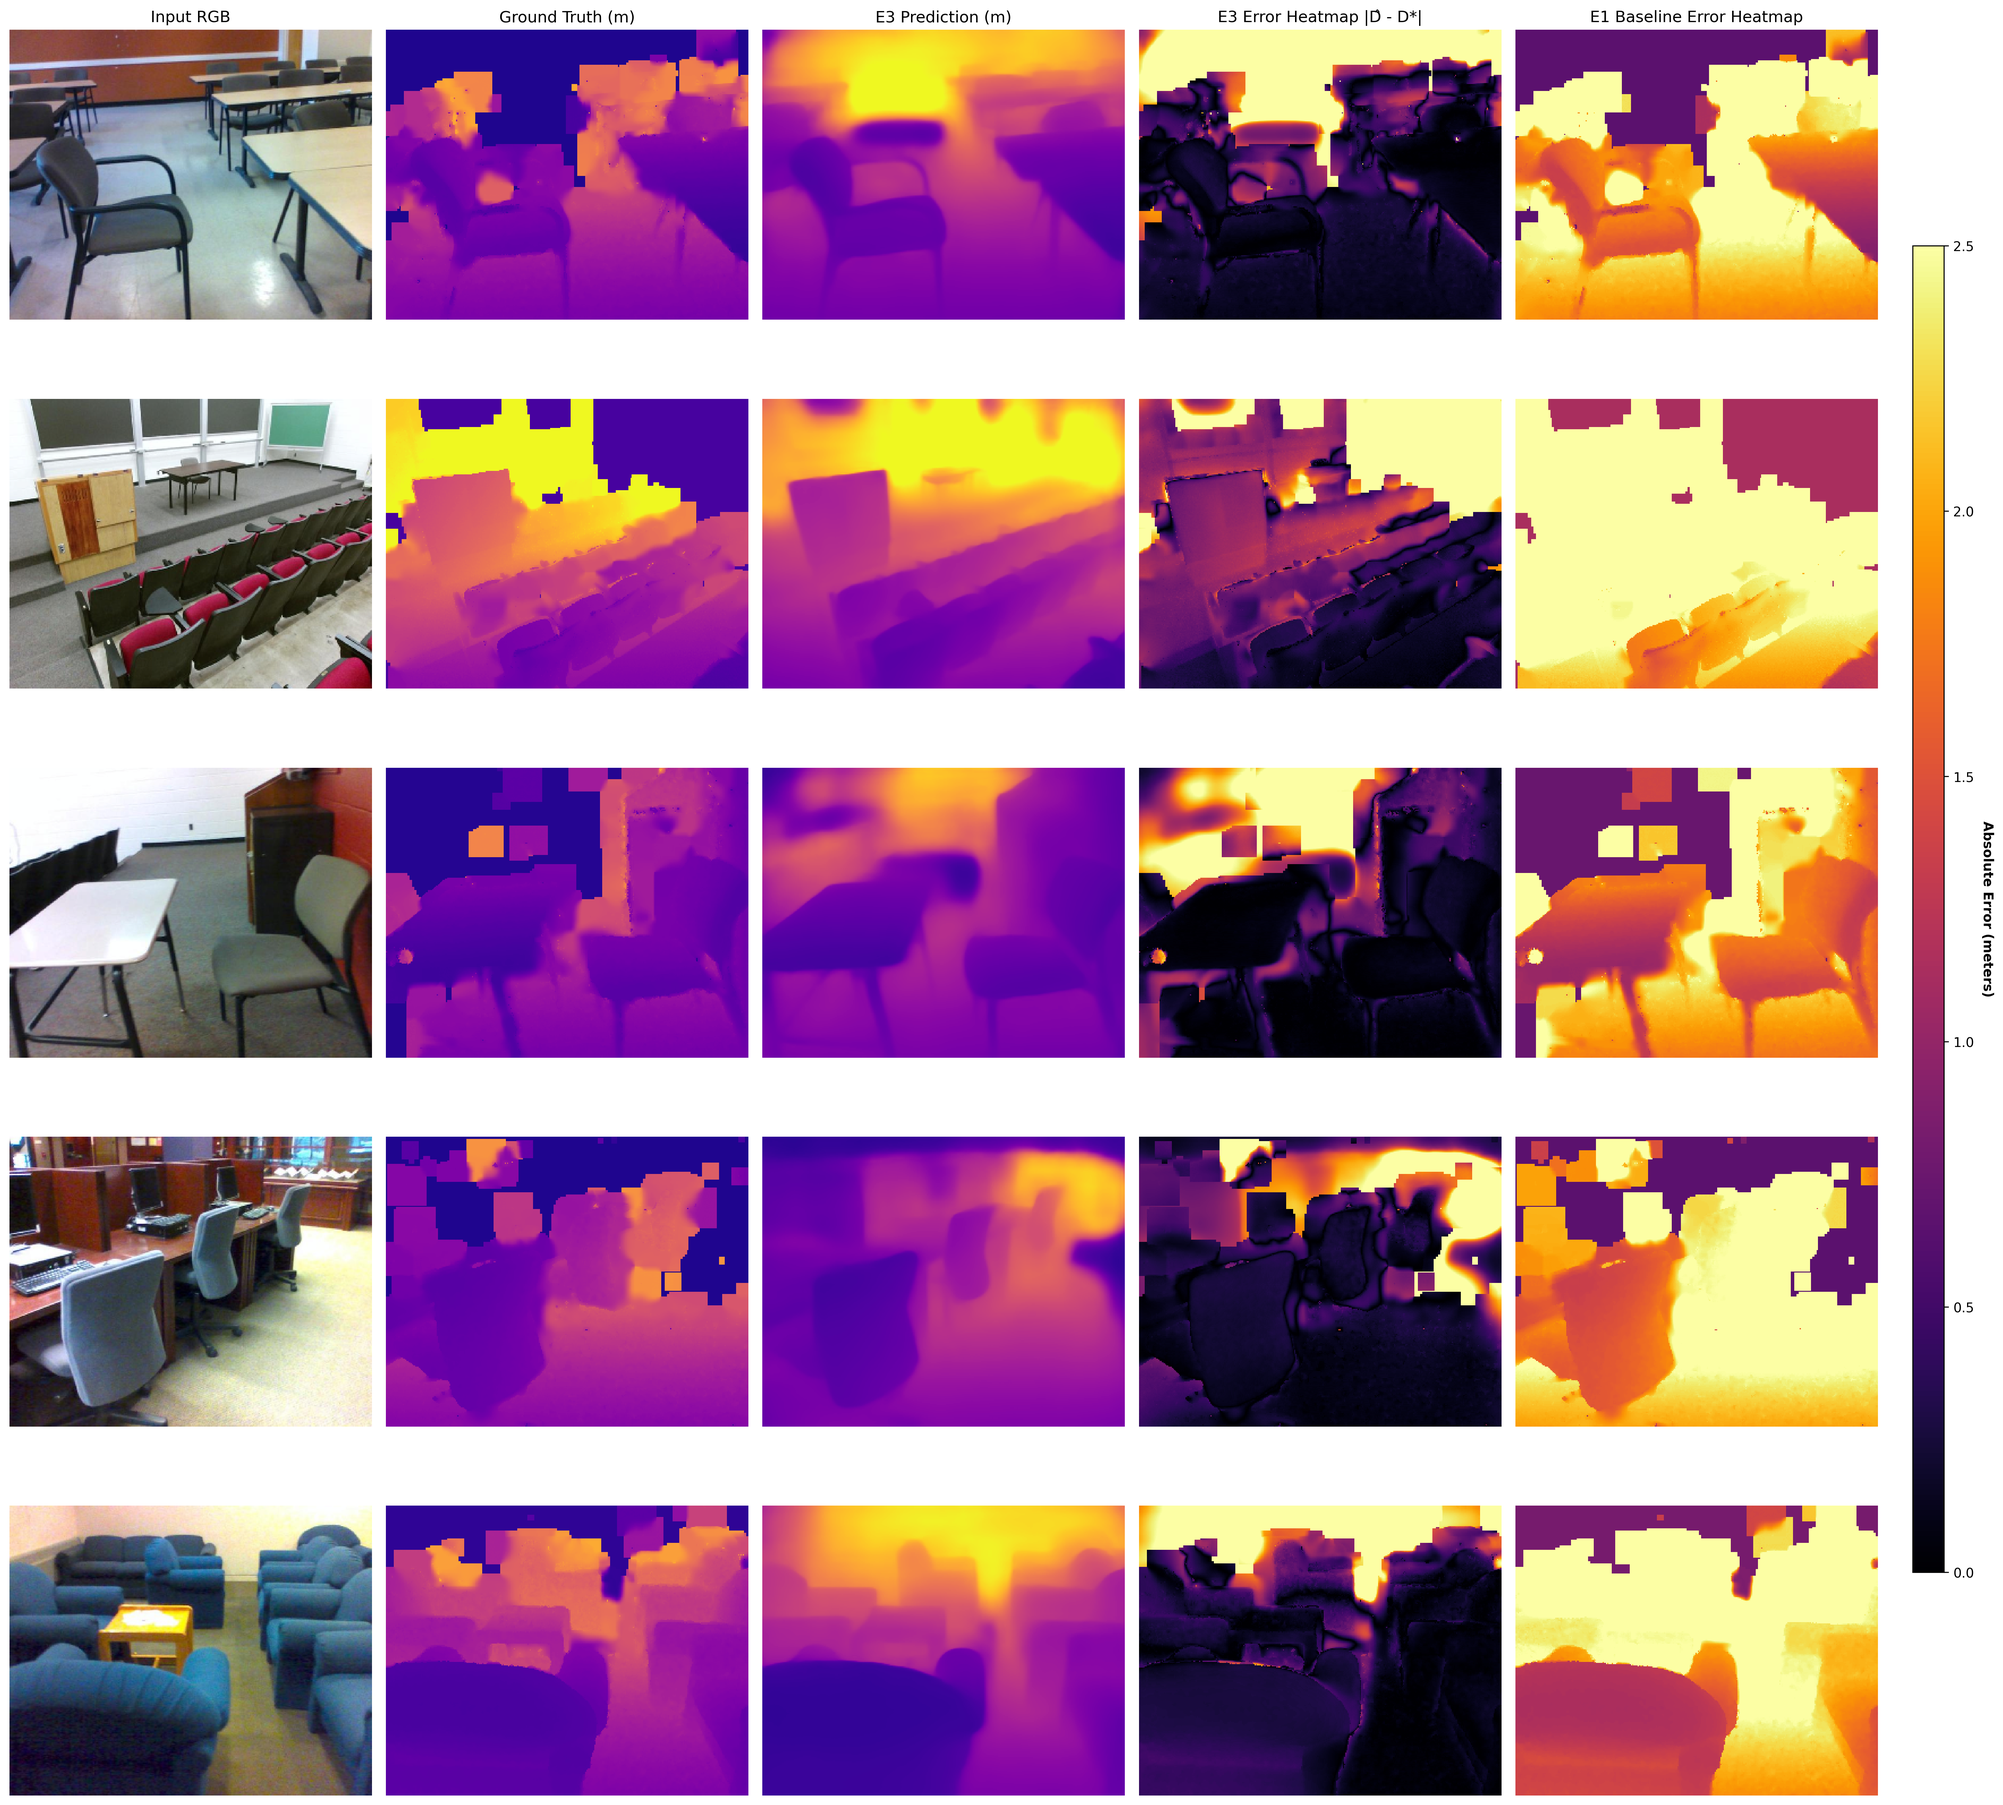
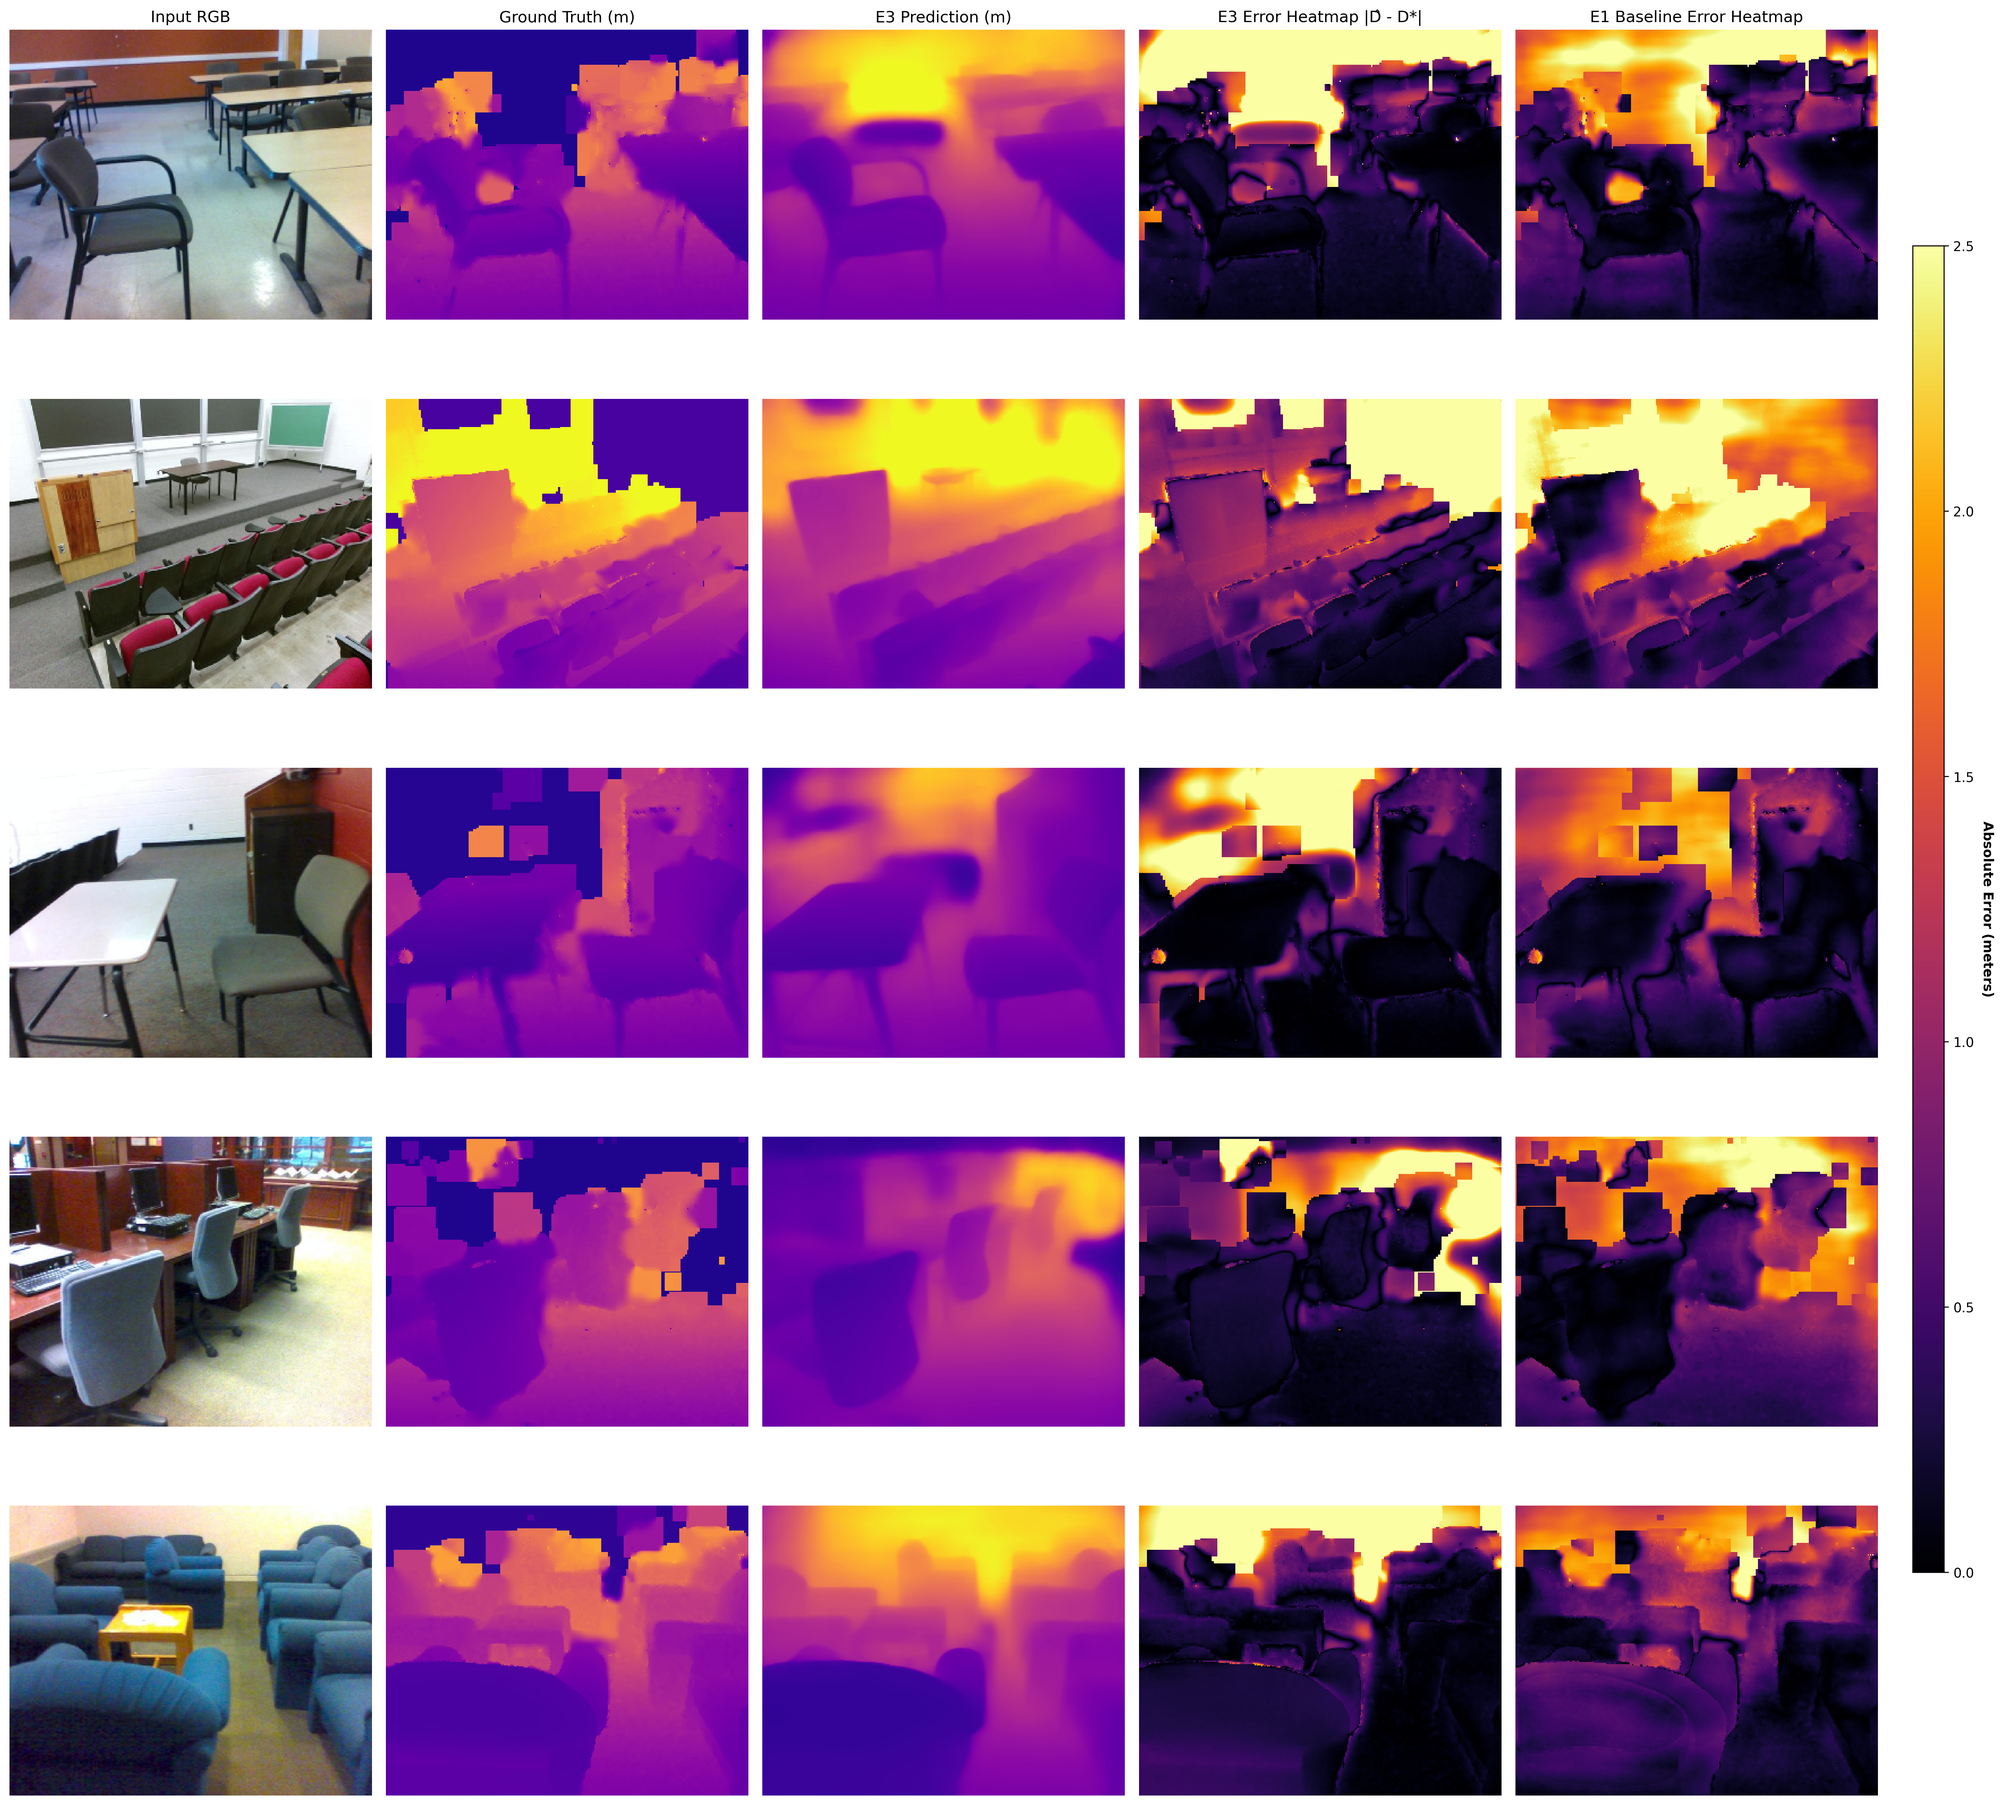
fix(artifacts): update authentic qualitative comparison grid with full E1/E2 predictions and latest compute profiling

Changed region(s): [[0.7492, 0.6229, 0.9365, 0.9967], [0.7492, 0.218, 0.9365, 0.5918], [0.7492, 0.0, 0.9365, 0.1869]]

diff --git a/src/views/assignments/Assignment2View.tsx b/src/views/assignments/Assignment2View.tsx
@@ -1221,7 +1221,34 @@ export default function Assignment2View({ onNavigate }: AssignmentViewProps) {
                 className="w-full rounded-lg border border-[#eaedff] bg-white p-1"
               />
               <p className="text-[12px] font-mono text-[#515f74] text-center">
-                Figure 6: Qualitative evaluation on representative SUN RGB-D test rooms. Columns show: (1) Input RGB optical frame; (2) Sensor Ground Truth Depth; (3) E0 Zero-shot; (4) E1 Scratch CNN Baseline; (5) E2 Frozen ViT; (6) E3 Full Fine-tuned; (7) Error Residual Difference Map.
+                Figure 6: Qualitative evaluation on representative SUN RGB-D test rooms. Columns show: (1) Input RGB optical frame; (2) Ground Truth Depth (depth_bfx); (3) E0: Pretrained ViT; (4) E1: Simple CNN Baseline; (5) E2: ViT Linear Probe; (6) E3: ViT Full Fine-tuned.
+              </p>
+            </div>
+
+            {/* Detailed Zoom-in Patch Comparison: Inductive Bias */}
+            <div className="bg-[#fcfcff] p-4 sm:p-5 rounded-xl border border-[#eaedff] space-y-3">
+              <div className="flex flex-col sm:flex-row sm:items-center justify-between gap-2">
+                <span className="font-mono text-[12px] font-bold text-[#131b2e] uppercase flex items-center gap-1.5">
+                  <Eye className="w-4 h-4 text-[#0037b0]" />
+                  Figure 6b: Zoom-in Patch Analysis: CNN Depth Bleeding vs. ViT Contour Sharpness
+                </span>
+                <a
+                  href={getAssetUrl('assignment2/figures/qualitative_detailed_discussion.png')}
+                  target="_blank"
+                  rel="noreferrer"
+                  className="inline-flex items-center space-x-1 text-[12px] text-[#0037b0] hover:underline font-mono"
+                >
+                  <span>View High-Res Crop</span>
+                  <ExternalLink className="w-3 h-3" />
+                </a>
+              </div>
+              <img
+                src={getAssetUrl('assignment2/figures/qualitative_detailed_discussion.png')}
+                alt="Detailed Inductive Bias Comparison"
+                className="w-full rounded-lg border border-[#eaedff] bg-white p-1"
+              />
+              <p className="text-[12px] font-mono text-[#515f74] text-center">
+                Figure 6b: High-magnification structural zoom: Classical CNN U-Net (E1) dilates depth across object boundaries (depth bleeding), whereas ViT DPT (E3) resolves millimeter-sharp silhouettes around chair legs and desk partitions.
               </p>
             </div>
 
@@ -1393,31 +1420,40 @@ export default function Assignment2View({ onNavigate }: AssignmentViewProps) {
                 </thead>
                 <tbody className="divide-y divide-[#f2f3ff] bg-white">
                   <tr>
+                    <td className="py-2.5 px-3 font-semibold text-[#64748b]">E0 (Zero-shot ViT)</td>
+                    <td className="py-2.5 px-3 font-mono text-[#515f74]">24.79 M (Head: 2.73M)</td>
+                    <td className="py-2.5 px-3 font-mono text-[#64748b]">480.1 MB</td>
+                    <td className="py-2.5 px-3 font-mono text-[#64748b]">N/A (Pretrained)</td>
+                    <td className="py-2.5 px-3 font-mono text-[#64748b]">N/A</td>
+                    <td className="py-2.5 px-3 font-mono text-[#64748b]">N/A (0 min)</td>
+                    <td className="py-2.5 px-3 font-mono text-[#0037b0]">17.62 ms (56.8 FPS)</td>
+                  </tr>
+                  <tr>
                     <td className="py-2.5 px-3 font-semibold text-[#131b2e]">E1 (CNN Baseline)</td>
-                    <td className="py-2.5 px-3 font-mono text-[#515f74]">7.83 M</td>
-                    <td className="py-2.5 px-3 font-mono text-[#166534]">~2.1 GB</td>
-                    <td className="py-2.5 px-3 font-mono">~276 pairs/sec</td>
-                    <td className="py-2.5 px-3 font-mono">~28 sec</td>
-                    <td className="py-2.5 px-3 font-mono">9.3 minutes (20 ep)</td>
-                    <td className="py-2.5 px-3 font-mono text-[#166534]">12.4 ms (~80.6 FPS)</td>
+                    <td className="py-2.5 px-3 font-mono text-[#515f74]">7.85 M (Scratch)</td>
+                    <td className="py-2.5 px-3 font-mono text-[#166534]">514.3 MB</td>
+                    <td className="py-2.5 px-3 font-mono">~52 pairs/sec</td>
+                    <td className="py-2.5 px-3 font-mono">~148 sec</td>
+                    <td className="py-2.5 px-3 font-mono">49.3 minutes (20 ep)</td>
+                    <td className="py-2.5 px-3 font-mono text-[#166534]">19.86 ms (50.4 FPS)</td>
                   </tr>
                   <tr>
                     <td className="py-2.5 px-3 font-semibold text-[#0284c7]">E2 (Frozen ViT)</td>
-                    <td className="py-2.5 px-3 font-mono text-[#515f74]">24.81 M (Head: 3.2M)</td>
-                    <td className="py-2.5 px-3 font-mono text-[#0284c7]">~3.8 GB</td>
-                    <td className="py-2.5 px-3 font-mono">~184 pairs/sec</td>
-                    <td className="py-2.5 px-3 font-mono">~42 sec</td>
-                    <td className="py-2.5 px-3 font-mono">10.5 minutes (15 ep)</td>
-                    <td className="py-2.5 px-3 font-mono text-[#0284c7]">18.8 ms (~53.2 FPS)</td>
+                    <td className="py-2.5 px-3 font-mono text-[#515f74]">24.79 M (Head: 2.73M)</td>
+                    <td className="py-2.5 px-3 font-mono text-[#0284c7]">480.1 MB</td>
+                    <td className="py-2.5 px-3 font-mono">~42 pairs/sec</td>
+                    <td className="py-2.5 px-3 font-mono">~184 sec</td>
+                    <td className="py-2.5 px-3 font-mono">46.0 minutes (15 ep)</td>
+                    <td className="py-2.5 px-3 font-mono text-[#0284c7]">17.71 ms (56.5 FPS)</td>
                   </tr>
                   <tr className="bg-[#f0fdf4]/40 font-medium">
                     <td className="py-2.5 px-3 font-bold text-[#166534]">E3 (Full Fine-Tune)</td>
-                    <td className="py-2.5 px-3 font-mono text-[#166534]">24.81 M (Full)</td>
-                    <td className="py-2.5 px-3 font-mono text-[#166534]">~5.6 GB</td>
-                    <td className="py-2.5 px-3 font-mono">~108 pairs/sec</td>
-                    <td className="py-2.5 px-3 font-mono">~72 sec</td>
-                    <td className="py-2.5 px-3 font-mono font-bold text-[#166534]">18.0 minutes (15 ep)</td>
-                    <td className="py-2.5 px-3 font-mono text-[#166534]">18.8 ms (~53.2 FPS)</td>
+                    <td className="py-2.5 px-3 font-mono text-[#166534]">24.79 M (Full)</td>
+                    <td className="py-2.5 px-3 font-mono text-[#166534]">480.1 MB</td>
+                    <td className="py-2.5 px-3 font-mono">~42 pairs/sec</td>
+                    <td className="py-2.5 px-3 font-mono">~186 sec</td>
+                    <td className="py-2.5 px-3 font-mono font-bold text-[#166534]">46.5 minutes (15 ep)</td>
+                    <td className="py-2.5 px-3 font-mono text-[#166534]">17.80 ms (56.2 FPS)</td>
                   </tr>
                 </tbody>
               </table>
